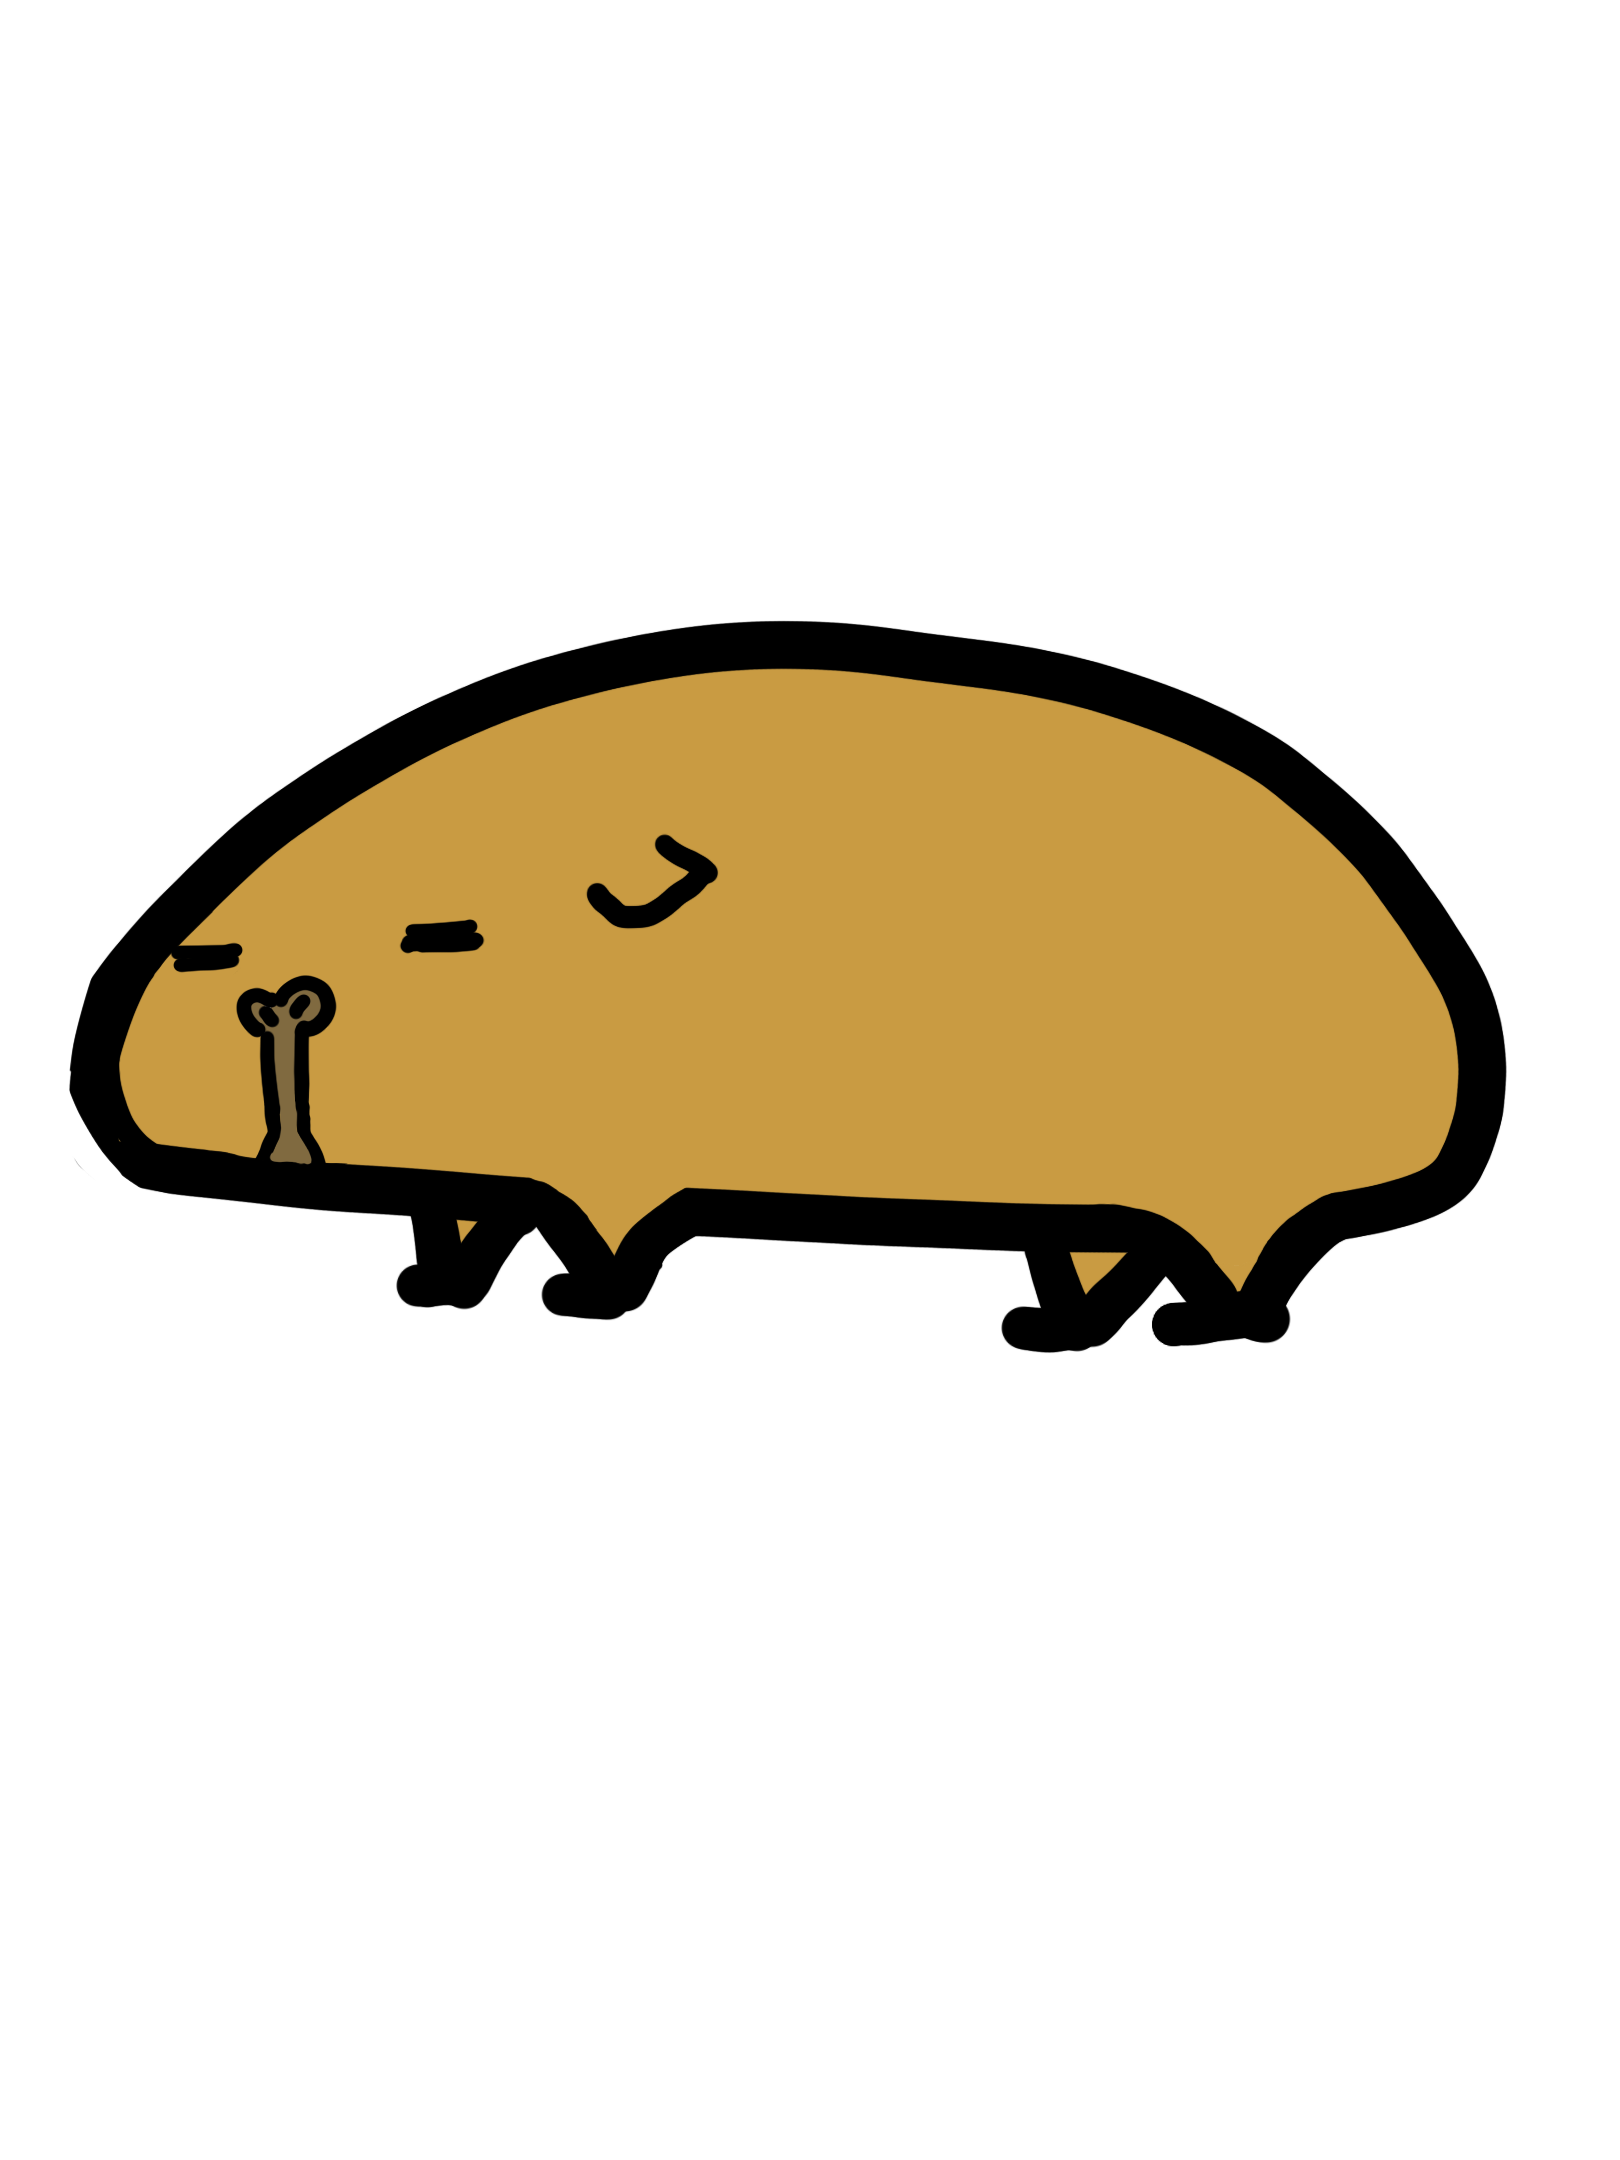
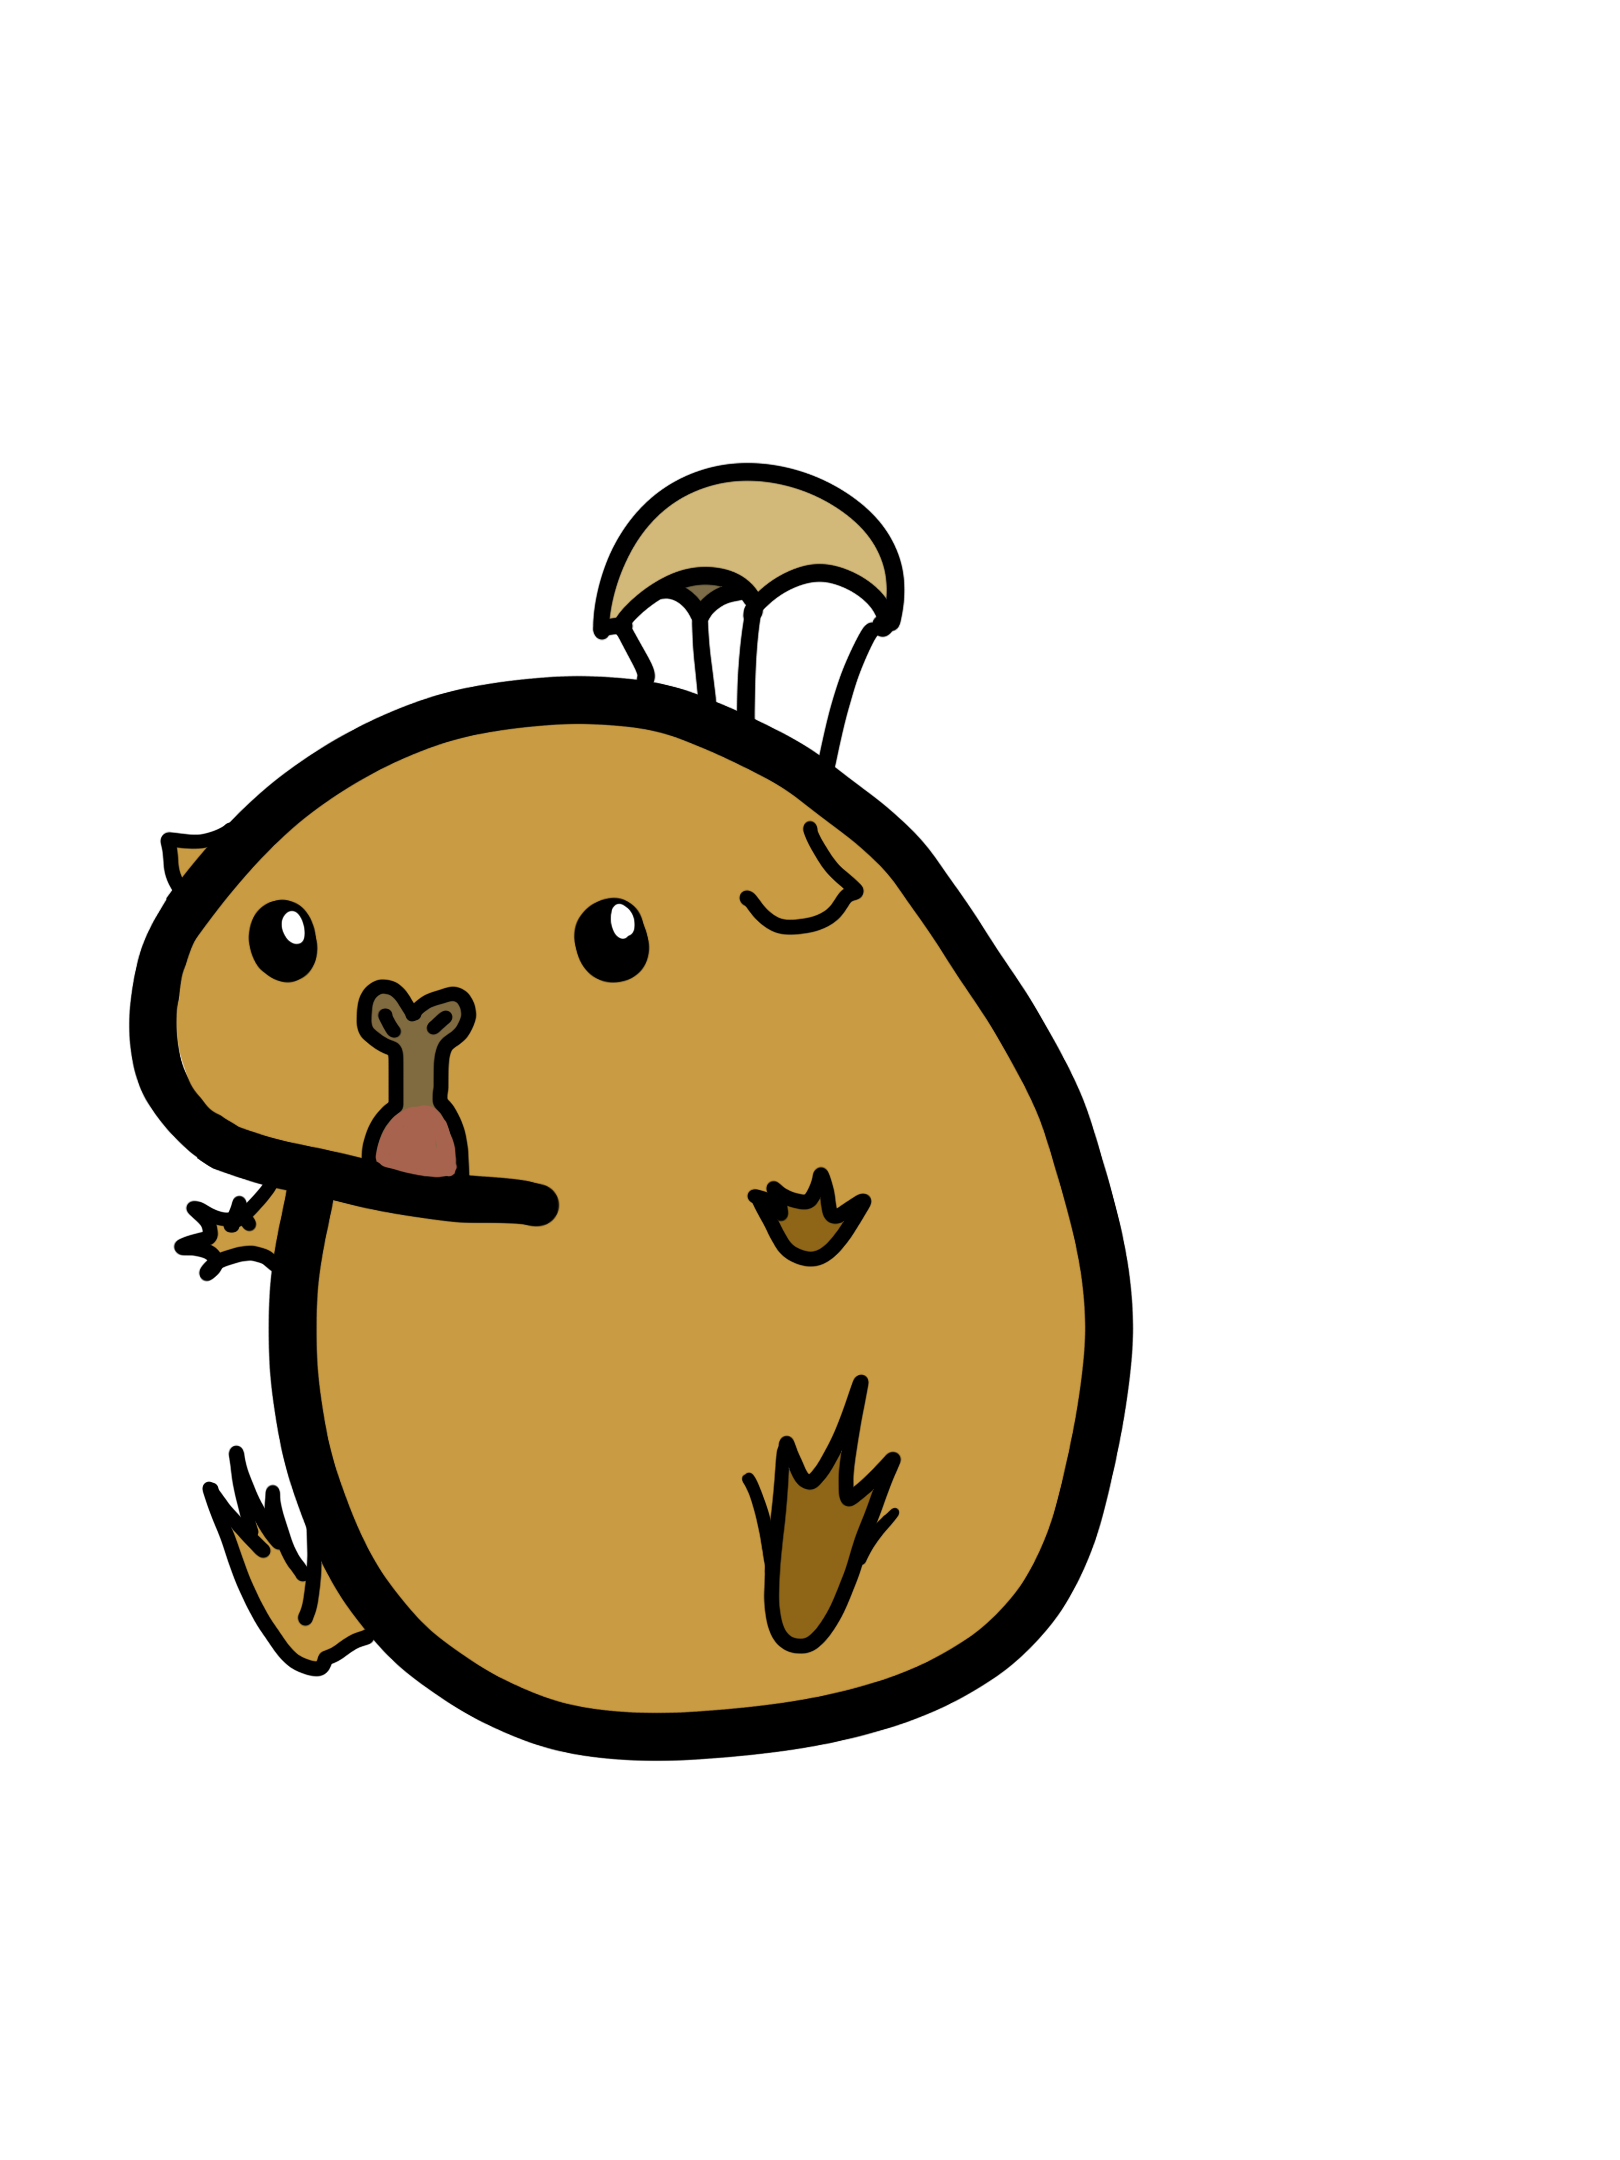
增加荷兰猪走路poop状态

Changed region(s): [[0.0309, 0.2171, 0.9259, 0.8375]]

diff --git a/DesktopPet.py b/DesktopPet.py
@@ -6,6 +6,9 @@ from PySide6.QtCore import Qt, QTimer, QPoint
 from PySide6.QtGui import QPixmap, QTransform
 from PySide6.QtWidgets import QApplication, QWidget, QLabel
 
+from PoopWidget import PoopWidget
+
+
 class DesktopPet(QWidget):
 
     def __init__(self, parent=None):
@@ -15,12 +18,13 @@ class DesktopPet(QWidget):
     def init(self):
         
         # 所有状态
-        self.allStatus = ['idle','sleep', 'walk', 'drag', 'fall', 'sleepwalk', 'walksleep']
+        self.allStatus = ['idle','sleep', 'walk', 'drag', 'fall', 'poop', 'sleepwalk', 'walksleep']
         self.animationInterval = {'idle':100, 
                                   'sleep':300,
                                     'walk':50, 
                                     'drag':100,
                                     'fall':50,
+                                    'poop': 200,
                                     'sleepwalk':100,
                                     'walksleep':100}
         # 缩放比例，预读取图片
@@ -78,6 +82,8 @@ class DesktopPet(QWidget):
         self.speed = self.defaultSpeed
         self.direction = -1  # 提前设定方向
         self.dragPosition = 0
+        self.poopLabels = []
+
 
         # 初始化 label 和动画定时器
         self.label = QLabel(self)
@@ -132,19 +138,17 @@ class DesktopPet(QWidget):
             self.move(event.globalPos() - self.dragPosition)
     
     # Status
-    def petWalk(self, direction, speed, nextStatus = 'idle'):
+    def petWalk(self, direction, speed, nextStatus='idle'):
         self.status = 'walk'
         self.direction = direction
         self.speed = speed
 
-         # 加载图片
+        # 加载walk的图片
         self.loadImage()
 
-        # 初始化移动控制
         self.maxMoves = np.random.randint(50, 100)
         self.moveCounter = 0
 
-        # 停止之前的移动定时器（如果存在）
         if hasattr(self, 'moveTimer') and self.moveTimer.isActive():
             self.moveTimer.stop()
 
@@ -153,6 +157,14 @@ class DesktopPet(QWidget):
         def autoMove():
             self.moveCounter += 1
 
+            if np.random.rand() < 0.05:  # 概率
+                poop = PoopWidget(
+                    x=self.x() + self.width() // 2,
+                    y=1000
+                )
+                self.poopLabels.append(poop)
+
+            # 正常移动逻辑
             if self.moveCounter >= self.maxMoves:
                 self.moveTimer.stop()
                 self.petIdle()
@@ -169,21 +181,18 @@ class DesktopPet(QWidget):
                 if new_x < 0:
                     new_x = 0
                     self.petTurn()
-
-
             else:
                 new_x = x + step
                 if new_x + self.width() >= screenWidth:
                     new_x = screenWidth - self.width()
                     self.petTurn()
 
-
             self.move(new_x, y)
-
 
         self.moveTimer.timeout.connect(autoMove)
         self.moveTimer.start(10)
-        return
+
+
 
     def petWalkSleep(self,direction):
         self.status = 'walksleep'
@@ -271,6 +280,19 @@ class DesktopPet(QWidget):
         self.fallTimer.start(30)
 
 
+    def petPoop(self):
+        self.status = 'poop'
+        self.loadImage()
+        self.currentFrame = 0
+
+        # 创建新的Poop组件
+        poop = PoopWidget(
+            parent=self.window(), 
+            x=self.x() + self.width() // 2,
+            y=self.y() + self.height() - 10
+        )
+
+        self.poopLabels.append(poop)
 
 
 
@@ -297,7 +319,8 @@ class DesktopPet(QWidget):
             self.petWalk(self.direction, self.speed)
         elif self.status == 'walksleep':
             self.petSleep()
-
+        elif self.status == 'poop':
+            self.petWalk(self.direction, self.speed)
 
 
 

diff --git a/PoopWidget.py b/PoopWidget.py
@@ -1,0 +1,30 @@
+from PySide6.QtWidgets import QLabel
+from PySide6.QtCore import Qt
+from PySide6.QtGui import QPixmap
+import os
+
+class PoopWidget(QLabel):
+    def __init__(self, x=0, y=0):
+        super().__init__(None)   # 注意：这里 parent=None，真正无父窗口
+
+        poop_path = os.path.join(os.path.dirname(__file__), "frames", "poop", "1.png")
+        poopPixmap = QPixmap(poop_path)
+
+        if poopPixmap.isNull():
+            print(f"⚠ 图片加载失败: {poop_path}")
+            return
+
+        poopPixmap = poopPixmap.scaled(
+            poopPixmap.width() * 0.05,
+            poopPixmap.height() * 0.05,
+            Qt.KeepAspectRatio,
+            Qt.SmoothTransformation
+        )
+
+        self.setPixmap(poopPixmap)
+        self.setAttribute(Qt.WA_TranslucentBackground)
+        self.setWindowFlags(Qt.FramelessWindowHint | Qt.WindowStaysOnTopHint | Qt.Tool)  # 👈 注意换成Qt.Tool！
+        self.resize(poopPixmap.size())
+        self.move(x, y)
+        self.show()
+        print(f"💩 poop created at ({x}, {y})")

diff --git a/main.py b/main.py
@@ -4,6 +4,7 @@ from PySide6.QtGui import QGuiApplication
 from DesktopPet import DesktopPet
 from PetHouse import PetHouse
 from Carpet import Carpet
+
 import sys
 
 class MainWindow(QWidget):
@@ -41,7 +42,7 @@ class MainWindow(QWidget):
         # 加载地毯
         self.carpet = Carpet(self.width(), 150, 0, 0, parent=self)
         self.carpet.lower()
-        
+
     def initPetPosition(self):
         pet_width = self.desktopPet.width()
         pet_height = self.desktopPet.height()
